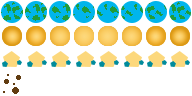
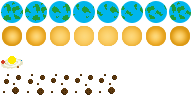
bound the camera so you can't pan forever. new solar system and asteroid field image.

diff --git a/src/map.py b/src/map.py
@@ -18,29 +18,36 @@ rand = random.Random()
 #         self.connections = {}
 
 
-class Star(Sprite):
-    def __init__(self, name, x=-1, y=-1):
-        Sprite.__init__(self, (200, 200), R.TILE_CACHE["data/planet_1.png"], scaling=2, ticks=8, depth=2, row=1)
+
+class ObjectOfInterest(Sprite):
+    def __init__(self, name, x, y, frames=None, sprite_pos=None, scaling=2, ticks=2, depth=1, row=0 ):
+        if frames == None:
+            frames =R.TILE_CACHE["data/city.png"]
+        Sprite.__init__(self, (x, y), frames, sprite_pos=sprite_pos, scaling=scaling, ticks=ticks, depth=depth, row=row)
         self.name = name
         self.x = x
         self.y = y
+        self.parent = None
+        self.zoom = "planet"
 
-class Planet(Sprite):
+class Star(ObjectOfInterest):
     def __init__(self, name, x=-1, y=-1):
-        Sprite.__init__(self, (200, 200), R.TILE_CACHE["data/planet_1.png"], scaling=2, ticks=8, depth=2)
-        self.name = name
-        self.x = x
-        self.y = y
+        ObjectOfInterest.__init__(self, name, x, y, R.TILE_CACHE["data/planet_1.png"], scaling=2, ticks=8, depth=2, row=1)
 
-class AsteroidCluster(Sprite):
+class Planet(ObjectOfInterest):
     def __init__(self, name, x=-1, y=-1):
-        Sprite.__init__(self, (200, 200), R.TILE_CACHE["data/planet_1.png"], sprite_pos=[0,3], scaling=1, ticks=8, depth=2, row=3)
-        self.name = name
-        self.x = x
-        self.y = y
+        ObjectOfInterest.__init__(self, name, x, y, R.TILE_CACHE["data/planet_1.png"], scaling=2, ticks=8, depth=2)
+
+class AsteroidCluster(ObjectOfInterest):
+    def __init__(self, name, x=-1, y=-1):
+        ObjectOfInterest.__init__(self, name, x, y, R.TILE_CACHE["data/planet_1.png"], sprite_pos=[0,3], scaling=1, ticks=8, depth=2, row=3)
 
 
-ALL_OOI = [Planet, AsteroidCluster]
+
+
+
+
+ALL_OOI = [Planet, AsteroidCluster] #Star not included as has special rules
 class NotableObject(Sprite):
     def __init__(self, sector,(x,y),(w,h), frames=None, sprite_pos=None, scaling=2, ticks=2, depth=1, row=0 ):
         """
@@ -59,10 +66,12 @@ class NotableObject(Sprite):
         self.sprites = SortedUpdates()
         self.objects = []
         self.orig_rect = self.rect.copy() #used to store the coordinate position with a rect. self.rect tracks image screen position.
+        self.parent = None
+        self.zoom = "solar"
 
     def check_mouse_pos(self, mouse_pos, cam_pos=(0,0)):
         for object in self.objects:
-            if object.sprite.rect.collidepoint(mouse_pos):
+            if object.rect.collidepoint(mouse_pos):
                 return object
         # tile_pos = ((mouse_pos[0] + 1 + cam_pos[0])/self.tile_width, (mouse_pos[1] + 1 + cam_pos[1])/self.tile_height)
         # if 0 > tile_pos[0] > len(self.tiles) - 1 or  0 > tile_pos[1] > len(self.tiles[0]) - 1:
@@ -78,6 +87,7 @@ class AsteroidField(NotableObject):
 
         for i in range(rand.randint(5, 15)):
             asteroid = AsteroidCluster("asteroid"+str(i), rand.randint(100, w), rand.randint(100, h))
+            asteroid.parent = self
             self.sprites.add(asteroid)
             self.objects.append(asteroid)
 
@@ -89,7 +99,7 @@ class RoguePlanet(NotableObject):
 class SolarSystem(NotableObject):
     def __init__(self, sector, (x, y), (w, h), tile_width=24, group=None):
 
-        NotableObject.__init__(self, sector,(x,y),(w,h), R.TILE_CACHE["data/planet_1.png"], ticks=8, row=2)
+        NotableObject.__init__(self, sector,(x,y),(w,h), R.TILE_CACHE["data/planet_1.png"], sprite_pos=[0,2], ticks=8, row=2)
         self.tile_width = tile_width #
         # self.objects = [] # moved to parent
         self.cities_dict = {}
@@ -101,9 +111,13 @@ class SolarSystem(NotableObject):
             planet = Planet("planet" + str(i))
             if self.place_planet(planet):
                 # planet.sprite = Sprite((planet.x, planet.y), R.TILE_CACHE["data/planet_1.png"], ticks=8)
+                planet.parent = self
                 if group != None:
                     group.add(planet)
                 self.sprites.add(planet)
+                self.objects.append(planet)
+                self.cities_dict[planet.name] = planet
+                # self.tiles[planet.x/self.tile_width][planet.y/self.tile_width] = planet
 
         # self.create_connections()
 
@@ -130,9 +144,6 @@ class SolarSystem(NotableObject):
                 tries = 0
 
         if placed:
-            self.objects.append(planet)
-            self.cities_dict[planet.name] = planet
-            # self.tiles[planet.x/self.tile_width][planet.y/self.tile_width] = planet
             return True
 
         else:
@@ -185,12 +196,15 @@ class Sector:
         self.points_of_interest = []
         self.sprites = SortedUpdates()
         self.rect = None
+        self.parent = None
+        self.zoom = "sector"
 
         for i in range(rand.randint(3, 9)):
             x,y = self.find_place()
             while x == False:
                 x,y = self.find_place()
             poi = rand.choice(ALL_POI)(self, (x, y), (512, 512))
+            poi.parent = self
             self.add_poi(poi)
 
 
@@ -256,7 +270,11 @@ class Sector:
 
         return False
 
-    def check_mouse_pos(self, x, y):
+    def check_mouse_pos(self,mouse_pos, camera_pos, (x,y)=(None,None)):
+        if x == None:
+            x = mouse_pos[0] - camera_pos[0]
+            y = mouse_pos[1] - camera_pos[1]
+
         for place in self.points_of_interest:
             if place.orig_rect.collidepoint(x, y): #TODO: potentially change it to use the places' rect instead of the sprite.
                 return place
@@ -270,6 +288,8 @@ class Galaxy:
         self.sector_rects = {}
         self.rects_sectors = {}
         self.connections = {}
+        self.parent = None
+        self.zoom = "galaxy"
 
         # self.sprites = SortedUpdates()
 
@@ -278,7 +298,7 @@ class Galaxy:
             self.sectors.append([])
             for j in range(4):
                 sector, rect = self.create_sector(i, j)
-
+                sector.parent = self
                 self.sectors[i].append(sector)
                 self.sector_rects[sector] = rect
                 self.rects_sectors[rect.topleft] = sector # Rect is not a hashable object so done it to the topleft tuple instead
@@ -301,7 +321,7 @@ class Galaxy:
         print mouse_pos, camera_pos, "=", x, y
 
         # if self.active_sector.rect.collidepoint(x,y):
-        return self.active_sector.check_mouse_pos(x, y)
+        return self.active_sector.check_mouse_pos(mouse_pos, camera_pos, (x, y))
 
 
 def length((x,y),(ox,oy)):

diff --git a/src/main.py b/src/main.py
@@ -45,8 +45,8 @@ class Game():
 
         self.galaxy = Galaxy()#1024,768,R.tile_size, group=self.sprites)
         print "finished generating"
-        self.layer = self.galaxy.sectors[0][0].points_of_interest[0]
-        self.zoom = "galaxy" # galaxy, solar system, planet # # possibly sector too
+        self.layer = self.galaxy.active_sector
+        self.zoom = "sector" # galaxy, sector, solar system, planet
         self.selected = None
         self.selector = None #Sprite((-10, -10), R.TILE_CACHE["data/selection_anim.png"])
 
@@ -76,13 +76,8 @@ class Game():
 
     def render(self, dt):
         dirties = []
-        if self.zoom == "galaxy":
-            #render using galaxy
-            sprites = self.galaxy.active_sector.sprites
-            sprites.clear(self.screen, self.background)
-            sprites.update(self.camera, dt)
-            dirties.append(sprites.draw(self.screen))
-        elif self.zoom == "solar":
+        # if self.zoom == "galaxy":
+        if self.zoom == "solar" or "sector":
             self.layer.sprites.clear(self.screen, self.background)
             self.layer.sprites.update(self.camera, dt)
             dirties.append(self.layer.sprites.draw(self.screen))
@@ -160,6 +155,15 @@ class Game():
             self.camera.state.topleft = (0,0)
             self.pressed_key = None
 
+        if pressed(pg.K_x):
+            self.switch_zoom(self.selected.zoom, self.selected)
+            self.pressed_key = None
+
+        if pressed(pg.K_z):
+            if self.layer.parent:
+                self.switch_zoom(self.selected.parent.zoom, self.layer.parent)
+                self.pressed_key = None
+
 
 
     def update_ui(self):
@@ -193,7 +197,7 @@ class Game():
             if button == 1:
                 if self.zoom == "galaxy":
                     self.selected = self.galaxy.check_mouse_pos((x,y), self.camera.state.topleft)
-                elif self.zoom == "solar":
+                elif self.zoom == "solar" or "sector":
                     self.selected = self.layer.check_mouse_pos((x,y), self.camera.state.topleft)
                 else:
                     self.selected = None
@@ -253,6 +257,7 @@ class Game():
                     # dx = 2.0 * math.degrees(math.atan(math.sinh(math.pi))) * dmy / (256.0 * (2 ** self.actual_zoom))
                     # print "drag (%d,%d) > %.4f,%.4f" % (dmx,dmy,dx,dy)
                     self.camera.state.center = (self.camera.state.center[0] + dmx, self.camera.state.center[1] + dmy)
+                    self.camera.bound(self.layer)
                     # self.camera.state.center = (self.cam_pos.center[0] + dmx, self.cam_pos.center[1] + dmy)
                     # self.redraw = True
 
@@ -262,17 +267,19 @@ class Game():
 
 
     def switch_zoom(self, zoom, layer):
+        self.selector.kill()
         self.selector = None
         self.camera.state.topleft = 0,0
         self.zoom = zoom
 
 
-        #TODO: each of these layers might hold the sprites different. make it so it displays the right ones properly.
-        if zoom == "galaxy":
-            #do something special
-            pass
-        else:
-            self.sprites = layer.sprites
+        self.layer = layer
+        # #TODO: each of these layers might hold the sprites different. make it so it displays the right ones properly.
+        # if zoom == "galaxy":
+        #     #do something special
+        #     pass
+        # else:
+        #     self.sprites = layer.sprites
 
 
 

diff --git a/src/render.py b/src/render.py
@@ -14,11 +14,35 @@ class Camera:
         self.camera_func = camera_func
         self.state = Rect(0, 0, width, height)
 
-    def apply(self, target):
-        return target.rect.move(self.state.topleft)
+    # def apply(self, target):
+    #     return target.rect.move(self.state.topleft)
 
     def update(self, target):
         self.state = self.camera_func(self.state, target.rect)
+
+    def bound(self, layer):
+
+        center = [None, None]
+        if self.state.center[0] > layer.w - self.state.w/2:
+            center[0] = layer.w - self.state.w/2
+        elif self.state.center[0] < 0 + self.state.w/2:
+            center[0] = self.state.w/2
+
+        if self.state.center[1] > layer.h - self.state.h/2:
+            center[1] = layer.h - self.state.h/2
+        elif self.state.center[1] < 0 + self.state.h/2:
+            center[1] = self.state.h/2
+
+        if center[0] != None:
+            if center[1] != None:
+                self.state.center = center
+            else:
+                center[1] = self.state.center[1]
+                self.state.center = center
+
+        elif center[1] != None:
+            center[0] = self.state.center[0]
+            self.state.center = center
 
 
 

diff --git a/src/R.py b/src/R.py
@@ -14,8 +14,12 @@ HALF_HEIGHT = TILE_SIZE/2
 WINDOW_WIDTH = 1440
 WINDOW_HEIGHT = 768
 
+
 UI_LEFTBAR = 250
 UI_BOTTOMBAR = 150
+
+MAP_WINDOW_WIDTH =  WINDOW_WIDTH - UI_LEFTBAR
+MAP_WINDOW_HEIGHT = WINDOW_HEIGHT - UI_BOTTOMBAR
 
 UI_LEFT = WINDOW_WIDTH - UI_LEFTBAR
 
